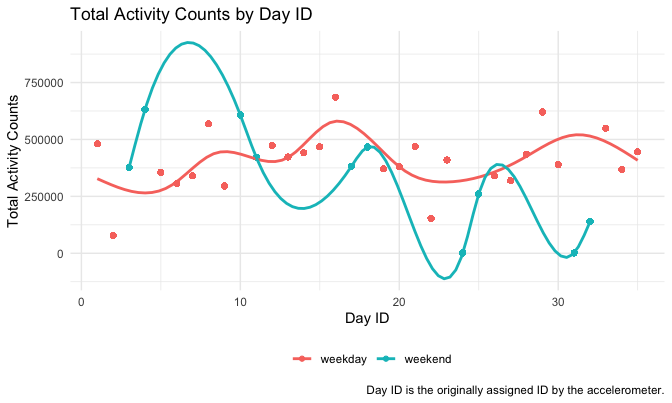
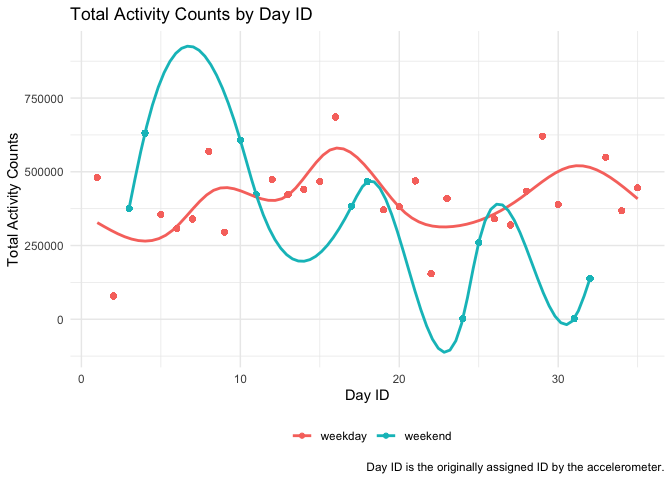
adjusting some previous plots, and adding the last two-panel plot for Problem 3; finished with Problem 3

diff --git a/p8105_hw3_sg3889.md b/p8105_hw3_sg3889.md
@@ -1,11 +1,13 @@
 P8105 Homework 3
 ================
 Siyue Gao
-2022-10-11
+2022-10-12
 
 ``` r
 library(tidyverse)
 library(p8105.datasets)
+library(ggridges)
+library(patchwork)
 ```
 
 # Problem 1
@@ -254,7 +256,7 @@ weekday or weekend.
 
 The following code chunk creates a new variable `total_counts` by
 aggregating across minutes to identify the total activity for each day.
-The table below shows the total activities by `week` and `day`.
+The table below shows the total activity counts by `week` and `day`.
 
 ``` r
 accelerometer = accelerometer %>% 
@@ -326,14 +328,14 @@ accelerometer %>%
   )
 ```
 
-<img src="p8105_hw3_sg3889_files/figure-gfm/unnamed-chunk-10-1.png" width="90%" />
+![](p8105_hw3_sg3889_files/figure-gfm/unnamed-chunk-10-1.png)<!-- -->
 
 As the above figure shows, the total activity counts on weekdays seem to
 be more stable, while there are more fluctuations (larger variances) on
 weekends. However, we should note that there are several days with total
 activity counts as low as 1440 (with every minute only counting “1”),
 indicating that the accelerometer might fail to accurately record the
-data.
+data during those days.
 
 ## Inspection activity over the course of the day
 
@@ -346,12 +348,16 @@ accelerometer %>%
     hour = minute / 60
   ) %>% 
   ggplot(aes(x = hour, y = activity_counts, color = day)) +
+  geom_line(alpha = .3) +
   geom_smooth(se = FALSE) +
   labs(
     x = "Hour of Day",
     y = "Activity Counts",
     title = "24-hour Activity Counts for Each Day",
     color = "Day of Week"
+  ) +
+  viridis::scale_color_viridis(
+    discrete = TRUE
   ) +
   scale_x_continuous(
     breaks = c(0, 3, 6, 9, 12, 15, 18, 21, 24)
@@ -362,20 +368,20 @@ accelerometer %>%
 <img src="p8105_hw3_sg3889_files/figure-gfm/unnamed-chunk-11-1.png" width="90%" />
 
 The plot above shows the 24-hour activity counts by hour for each day,
-and the different colors are used to indicate day of the week. We can
-tell that at around Sunday noon and on Friday late evening, the activity
-counts of this participant reach to two peaks, compared to other time
-courses. The activity counts tend to experience an obvious decline after
-about 10 pm each day, and there are always periods with lower activity
-counts from 0 to 5 am.
+and different colors are used to indicate day of the week. We can tell
+that in the evening of most of the days and on Sunday noon, the activity
+counts of this participant are greater than usual, compared to other
+time courses. From the smooth line, we can tell that the activity counts
+tend to experience a decline after about 9 pm each day, and there are
+always periods with lower activity counts from 0 to 5 am each day.
 
 # Problem 3
 
 ## Load and clean the data
 
 Load the data, separate `date` into `year`, `month`, and `day`. Change
-the units of temperature, precipitation, and snowfall into more
-reasonable and readable ones.
+the units of temperature and precipitation into more reasonable and
+readable ones.
 
 ``` r
 data("ny_noaa")
@@ -394,20 +400,17 @@ ny_noaa = ny_noaa %>%
 
 ## Data description
 
-``` r
-skimr::skim(ny_noaa)
-```
-
 The `ny_noaa` dataset contains 2595176 observations of 747 unique
-weather station in New York State, with 9 variables, primarily
+weather stations in New York State, with 9 variables, primarily
 describing climate information collected at given specific observation
 dates from 1981 to 2010. Some key variables are recorded in the dataset,
 such as precipitation (mm), snowfall (mm), snow depth (mm), maximum and
-minimum temperature (degrees C). There are 145838 NAs for precipitation,
-381221 NAs for snowfall, 591786 NAs for snow depth, 1134358 NAs for
-maximum temperature, and 1134420 NAs for minimum temperature. These
-missing values are due to the fact that each weather station may collect
-only a subset of these variables.
+minimum temperature (degrees C). There are 145838 missing values for
+precipitation, 381221 missing values for snowfall, 591786 missing values
+for snow depth, 1134358 missing values for maximum temperature, and
+1134420 missing values for minimum temperature. These missing values are
+due to the fact that each weather station may collect only a subset of
+these variables.
 
 ``` r
 ny_noaa %>% 
@@ -415,32 +418,28 @@ ny_noaa %>%
   summarise(
     n_obs = n()
   ) %>% 
-  mutate(
-    rank = min_rank(desc(n_obs))
-  ) %>% 
-  arrange(rank)
+  arrange(desc(n_obs)) %>% 
+  head()
 ```
 
-    ## # A tibble: 282 × 3
-    ##     snow   n_obs  rank
-    ##    <int>   <int> <int>
-    ##  1     0 2008508     1
-    ##  2    NA  381221     2
-    ##  3    25   31022     3
-    ##  4    13   23095     4
-    ##  5    51   18274     5
-    ##  6    76   10173     6
-    ##  7     8    9962     7
-    ##  8     5    9748     8
-    ##  9    38    9197     9
-    ## 10     3    8790    10
-    ## # … with 272 more rows
+    ## # A tibble: 6 × 2
+    ##    snow   n_obs
+    ##   <int>   <int>
+    ## 1     0 2008508
+    ## 2    NA  381221
+    ## 3    25   31022
+    ## 4    13   23095
+    ## 5    51   18274
+    ## 6    76   10173
 
 For snowfall, the most commonly observed value is 0. It’s reasonable
-since the snow usually occurs during winter months, which only take up
-1/4 time of a whole year.
+since the snow usually and only occurs during winter months, which only
+take up 1/4 time of a whole year.
 
 ## Two-panel plot for average `tmax`
+
+The following code chunk makes a two-panel plot showing the average max
+temperature in January and July in each weather station across years.
 
 ``` r
 ny_noaa %>% 
@@ -453,8 +452,8 @@ ny_noaa %>%
     mean_tmax = mean(tmax, na.rm = TRUE)
   ) %>% 
   ggplot(aes(x = year, y = mean_tmax)) +
-  geom_point(alpha = .5) +
-  geom_smooth(color = "red", se = FALSE) +
+  geom_point() +
+  geom_smooth(se = FALSE) +
   labs(
     x = "Year",
     y = "Average Maximum Temperature\n(degrees C)",
@@ -462,7 +461,7 @@ ny_noaa %>%
     caption = "Data are limited to January and July.\nEach spot represent a unique weather station."
   ) +
   scale_x_continuous(
-    breaks = c(1980, 1985, 1990, 1995, 2000, 2005, 2010)
+    n.breaks = 6
   ) +
   facet_grid(. ~ month) +
   theme_minimal() +
@@ -471,20 +470,111 @@ ny_noaa %>%
   )
 ```
 
-<img src="p8105_hw3_sg3889_files/figure-gfm/unnamed-chunk-15-1.png" width="90%" />
+![](p8105_hw3_sg3889_files/figure-gfm/unnamed-chunk-14-1.png)<!-- -->
+
+The average maximum temperature in January is obviously lower than than
+that in July, as expected.
 
 For average maximum temperature in **January**, there is a continuous
 increase from 1981 to 1990. However, after 1990, it tends to have a
-regular fluctuation at around 0 Celcius degree, with a decrease lasting
-for 3 to 4 years followed by a continuous increase for approximately 4
-to 5 years. There are some obvious outliers just by eyeballing, for
-instance, in 1982 and 2005, we can observe some stations with extremely
+regular fluctuation at around 0 degree C, with a decrease lasting for 3
+to 4 years followed by a continuous increase for approximately 4 to 5
+years. There are some obvious outliers just by eyeballing, for instance,
+in 1982, 1993, and 2005, we can observe some stations with extremely
 lower mean maximum temperature (and also some in 2008 and 2010), while
 in 2004, there are some higher observations.
 
 For average maximum temperature in **July**, the overall trend is more
-stable. The average maximum temperature is at around 27 celcius degrees
-across years. There are some obvious outliers, for instance, in 1989, we
+stable. The average maximum temperature is always at around 27 degrees C
+across years. There are some obvious outliers, for instance, in 1988, we
 can observe a weather station with an extremely lower average maximum
 temperature, and also some lower observations in years such as 1981 to
-1984, 2005, and 2007.
+1984, 2004, and 2007.
+
+## Two-panel plot summarizing temperature and snowfall
+
+First, make a plot showing `tmax` vs `tmin` for the full dataset.
+
+``` r
+tmax_vs_tmin = ny_noaa %>% 
+  ggplot(aes(x = tmin, y = tmax)) +
+  geom_hex() +
+  labs(
+    x = "Minimum Temperature\n(degrees C)",
+    y = "Maximum Temperature\n(degrees C)",
+    fill = "Count",
+    title = "Maximum Temperature vs. Minimum Temperature\nfor Each Weather Station, 1981 - 2010"
+  ) +
+  scale_x_continuous(
+    n.breaks = 6
+  ) +
+  scale_fill_continuous(
+    breaks = c(10000, 30000, 50000)
+  ) +
+  theme_minimal() +
+  theme(
+    legend.position = "bottom"
+  )
+```
+
+Then, make a plot showing the distribution of snowfall values greater
+than 0 and less than 100 separately by year.
+
+``` r
+snowfall_density_ridges = ny_noaa %>% 
+  filter(snow %in% (1:99)) %>% 
+  ggplot(aes(x = snow, y = as.factor(year), fill = year)) +
+  geom_density_ridges(alpha = .3) +
+  labs(
+    x = "Snowfall (mm)",
+    y = "Density",
+    fill = "Year",
+    title = "Distribution of Snowfall by Year",
+    caption = "Data are limited to snowfall values greater than 0 mm and less than 100 mm."
+  ) +
+  scale_x_continuous(
+    breaks = c(0, 25, 50, 75, 100)
+  ) +
+  scale_y_discrete(
+    position = "right"
+  ) +
+  viridis::scale_fill_viridis() +
+  theme_minimal() +
+  theme(
+    legend.position = "bottom"
+  )
+```
+
+Finally, use `patchwork` to align these two plots side by side. Save it
+by `ggsave()` and attach it in the final rendered github_document.
+
+``` r
+final_plot = tmax_vs_tmin + snowfall_density_ridges
+
+ggsave(
+  filename = "results/final_plot.png", 
+  plot = final_plot, 
+  width = 26, 
+  height = 20, 
+  units = "cm"
+)
+
+knitr::include_graphics("results/final_plot.png")
+```
+
+![](results/final_plot.png)<!-- -->
+
+The final plot shows both the `tmax` vs. `tmin` for the whole dataset
+from 1981 to 2010 and the distribution of snowfall values between 0 mm
+and 100 mm.
+
+We can tell that a large proportion of observations lies within the
+range of -10 degrees C to 30 degrees C, with some obvious outliers with
+extremely higher temperatures, especially on the right corner and the
+top part of the hexagonal plot.
+
+For the density ridges of snowfall values, there is always a peak at
+around 12 mm. However, compared to the earlier years, the peaks at
+higher snowfall values (e.g., 25 mm, 50 mm, etc.) become less obvious,
+indicating less heavy snowfalls in more recent years. This may be
+consistent with the underlying global warming trend.
